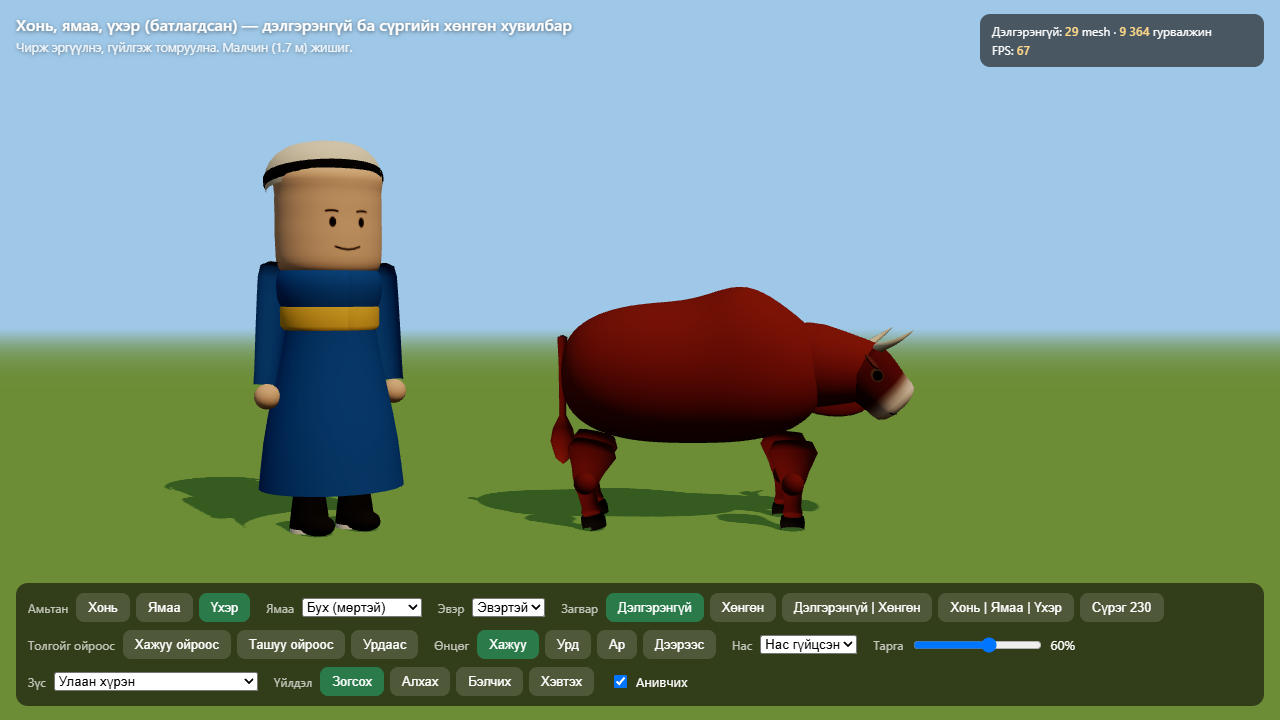
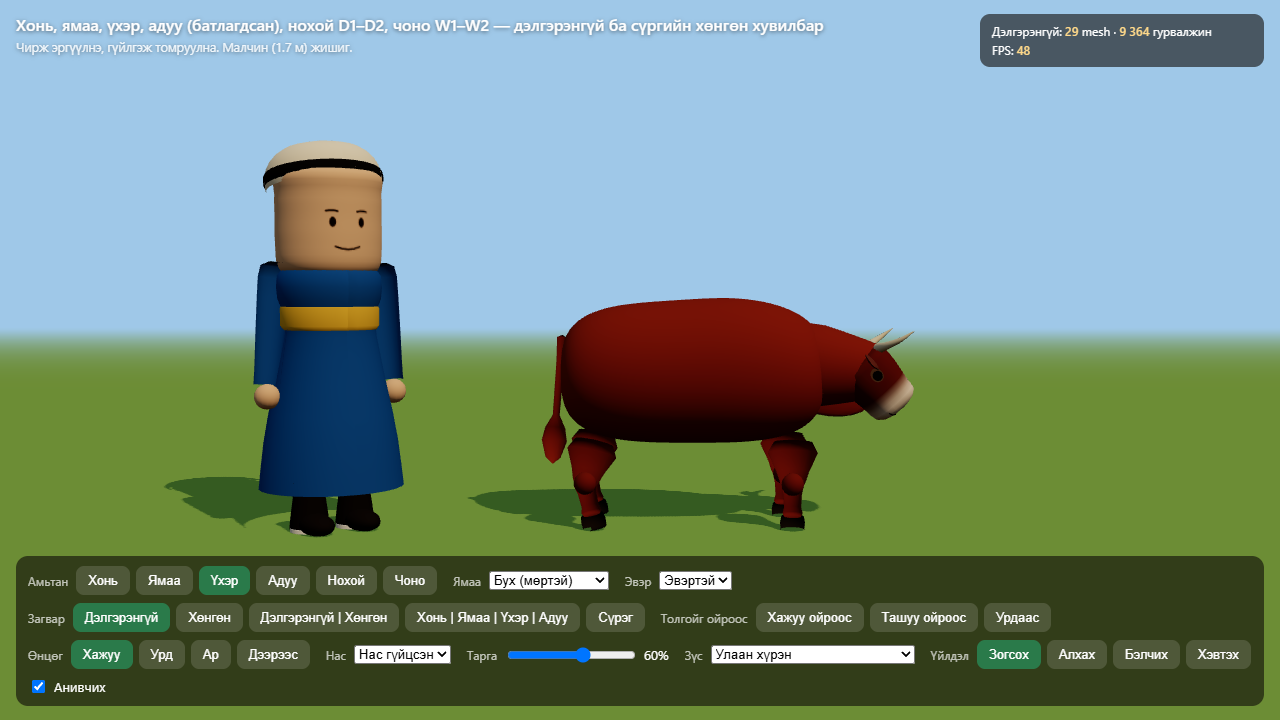
feat(lab): V4.6 үхрийн нуруу тэгш, адуу H2 батлагдсан (явдлын шалгалт), нохой D1–D2, чоно W1–W2
- үхэр: бухын мөр бага, нурууны шугам тэгш, ууц/гуя цээжтэй тэнцүү
- адуу: H2 тогтсон (H1, H3 хасав); явдал тулах/дүүжлэх үетэй, тулах үед туурай газарт;
  туурайн өндрөөр шалгасан — алхах 4 цохилт, хатирах диагональ хос, давхих 4 цохилт + нисэх үе
- унасан малчин: хөл хоёр талд унжиж дөрөөнд
- нохой (банхар, «дөрвөн нүд», сэвсгэр эргэсэн сүүл), чоно (нарийн хошуу, урт хөл, унжсан сүүл);
  алхах, гүйх, хэвтэх, хуцах/улих, сэм дөхөх, барих; нохой малчинтай, чоно хонинтой харьцуулна
- зураг tools/shots/cow/final, horse/final, dog, wolf

diff --git a/docs/plan/V.md b/docs/plan/V.md
@@ -43,7 +43,7 @@ V0–V5 дүрслэлийг бүтнээр нь дуусгаж, мал амьт
 | V4.3 | 1000 малын `high` хэмжилт (`?stats`) | — | — | хэрэглэгч ([[playtest]]) | ⏳ |
 | V4.4 | Үндсэн дүрийн шинэ загвар ([[character-design]]): цилиндр толгой, зурмал нүүр (анивчих, ярих, үйл явдлын сэтгэл хөдлөл), үе мөчтэй алхаа/гүйлт, улирлын дээл, монгол гутал, тоорцог/үстэй малгай. Лаборатори: `tools/character-lab/herder.html` | `render/herderModel.ts`, `render/characters.ts`, `render/style.ts` | `data/visuals.json` herderAnim | Claude | ✅ код ([[playtest]]) |
 | V4.5 | Хүний дүрийн нэг кодын сан: `render/character/` модулиуд, `data/characters.json` (царай, үс, өндөр, хувцас), туслах/газрын зураг/сумын оршин суугчид нэг кодоор, лаборатори нэг эх сурвалжтай — [[character-design]] §4 R1–R7 | `render/character/*`, `render/staff.ts`, `render/sumcenter.ts`, `render/worldmap.ts` | `data/characters.json` | — | 🔄 2026-11-15: **R1** ✅ `herderModel.ts` → `character/{spec,materials,geom,face,bake,rig,animate,crowd}.ts` + `parts/{head,torso,arm,leg,hats}.ts`, бүгд төрөлтэй (`@ts-nocheck` алга), `animateCharacter`; `herderModel.ts` зөвхөн дамжуулагч (R5-д устна). Тоглогч V4.4-тэй **пикселээр ижил** (`lab.html?shot=` 14 зураг, хуучин HEAD кодтой нэг хуудсанд readPixels харьцуулалт, зөрүү 0), draw call өөрчлөгдөөгүй: сүүдэргүй намар 22 / өвөл 31, сүүдэртэй 40 / 58. Зассан алдаа: сумын төвийн `crowd` угсрахад тоглогчийн амьд нүүрний текстурын шилжилт crowd-ийн хуваалтаар дарагдаж нүүр ~7° хазайдаг байсан. Хуучин лабораторийн цэвэр үлдэгдэл (бөөрөнхий толгой, рельеф, чих) хасагдсан. **R2** ✅ `materials.ts` өнгө/хээгээр кэштэй; 10 дүр угсрахад текстур, сангийн тоо өсөхгүй (тест). **R3** ✅ `data/characters.json` (preset `man`, `player`, `base` гүн өвлөлт, тойрог шалгана) + `spec.ts` шалгагч; тоглогч эндээс угсрагдана; deel.color/hem, winterTrim, terlegLighten нь R5 хүртэл `visuals.json` outfits-аас нөхөгдөнө (хуучин `makeHerder`-тэй хуваалцдаг тул давхардуулаагүй). `tests/characters.test.ts` (7). **R6** ✅ `game/lab.html` + `character/lab.ts` (dev-only, тоглоомын модулийг шууд импортолно; preset, өнгө, улирал/бие/малгай, сэтгэл хөдлөл, хөдөлгөөн, crowd, `?shot=`). R1–R3, R6 commit `80f07b0`. **R4** ✅ (хэрэглэгч бүх төрхийг баталсан): spec-д `figure` (stature, legs, build, head, hunch — bake-ээс өмнө ясаар), `headShape` (width, height, round — геометр, малгай таарна), `face` (нүд oval/dot/line/slant + хэмжээ/зай/өндөр, хөмсөг straight/arch/slant + буурал өнгө, ам өргөн/байрлал/инээмсэглэл, сахал, үрчлээ, хацрын туяа, сэвх, мэнгэ, нүдний шил, сормуус), `hair.style` (short, bald — хажуугийн үстэй, bun, braids, braid) + `hair.strands`, арьсны 4 палитр (`skins`: light, medium, tan, ruddy), `wear` (улирлын толгойн өмсгөл) + алчуур `scarf`/`shawl` (эрүүн доогуур/араар зангидсан), охидын `ribbon`; дүр зөвхөн өмсдөг малгайгаа угсарна. Бэлэн дүр 11: woman_braids, woman_plait, boy_shorthair, boy_shaved, girl_braids, girl_bun, elder_goatee, elder_beard (шил), granny_bun, granny_plait, teacher_glasses — бүс 5 өнгө, гутал 3 хувилбар, бие (өргөн мөртэй бүдүүн, туранхай, намхан тарган), бөгтөр 0.14–0.26 рад (хажуугаас танигдана). `detail: 'npc'`: хуваалт 0.6, бээлий гар, үслэг хүрээ хоолойгоор, нэрээр нэгтгэсэн давхарга, хоёр талт нэг материал, давхаргад 1 сүүдэр, атлас нүүр. Хэмжилт (`?lineup&measure`, тоглогч + 8 npc, сүүдэртэй): +126…+130, өвөл +167 < 200. Тоглогч 14 зурагт пикселээр хэвээр (царайны шинэ параметрийн анхдагч утга нь хуучин зурагтай ижил). Лаборатори `?lineup`: `&faces` (царай ойроос 2 эгнээ), `&gray` (бүх дээл саарал — хүн бүр ялгарч байгааг зургаар шалгасан), `&side`, `&hat=`, `&season=`, `&measure`. Зургууд `tools/shots/r4/`. `tests/characters.test.ts` 18. R4 засвар ✅ (`5ccc70c`): арьсны палитр тоглогчийн арьсны ойролцоо, өвлийн хантааз/зах/малгайн өнгө preset бүрт өөр (`vest.worn`), нимгэн наалдсан алчуур (араар зангидсан, дух/хацар ил), npc lod 0.3 → нэг дүр 5 480–7 810 гурвалжин (зорилт ≤ 8 000, тест). **R5** ✅: тоглогч (`characters.ts`), туслах (`staff.ts` — `roles`: малчин, адуучин, жолооч, айлын эхнэр, хүүхэд; дээл үүргийн өнгөөр), газрын зургийн малчин (`worldmap.ts`), сумын оршин суугч (`sumcenter.ts` — `crowd.looks` preset × бие × малгай, seed-ээр) бүгд `buildCharacter`; хуучин `makeHerder`/`dressHerder`/`helperColors`, `herderModel.ts` устсан; тоглогчийн өнгө, collarFur, terlegLighten, сумын олон хүний төрх visuals.json → characters.json. Тоглогч 14 зурагт пикселээр хэвээр; сумын олон хүн ≤ 48 draw call (тест); `staff.test` хэвээр. Зураг `tools/shots/r5/` (?shot=1,4,6). R5 нэмэлт: тоглоом дотор ойроос шалгасан (`tools/shots/r5/` a–d), `roles.collect` насанд хүрэгчдийн preset болсон; өвлийн зузаан алчуур бөөрөнхий, эрүүн доогуур. **R7** ✅: `character/talk.ts` — тоглогч сумын төвийн дэлгүүр/үйлчилгээний хаалганы тойрогт зогсоход (цонх нээгддэг газар; main.ts/panels.ts-д хүрээгүй тул цонхны бодит нээлтийг биш, хаалганы тойргийг ашигласан) хамгийн ойрын оршин суугч амьд дүр болж бие бие рүүгээ эргэж, хоёулаа ам хөдөлгөнө; ярилцлагын үеэр мөнгө өсвөл баярлах, буурвал гуниглах; туслах дайрч буй чоно харвал гайхах → уурлах. Тоо — characters.json `talk`. Тоглоомд шалгасан: эргэлт (тоглогч 0.90 ≈ зорилт), smile зарахад 0.96, авахад −0.85; зураг `tools/shots/r7/`. **Сумын төвийн draw call** ✅ (2026-11-16, `?stats` + ангиллаар нууж хэмжсэн, ярилцлагын үзэгдэл): өмнө high/mid 317 (сүүдэр 31), low ≈ 286 — хэвтээ 26 нохой 169 (нохой бүр 13 mesh), оршин суугч 42, тоглогч 39, тойрог 16, амьд дүр 15, шошго 14, уул 8, худалдааны машин 8, барилгын статик mesh 2, газар 1. Одоо high/mid 81, low 52 (сумын тойм 74 / 49): нохой `bakeStatic` 4, оршин суугч 6 (ойр `crowd.nearR` 14 м — бүрэн дүр, цааш — төрх бүр 1 draw call, сүүдэргүй), тойрог 1, шошго 1 (`LabelAtlas`, ЗАРНА/ТАНЫХ UV солигдоно), уул 1. Барилга (`sumlayout.ts`) хөндөөгүй: статик 2 + машин 8. talk-1-ийн хар тэгш өнцөгт: тестийн скриптийн камер ЗДТГ-ын дотор орсон (z −59.53 < хана −59) — нэг талт хана дотроос харагдахгүй, хаалганы хайрцгийн дотор тал үүрээр гэрэлгүй тул хар; сумын төвд камер-барилгын мөргөлдөөн байхгүй (`camera.ts`, миний файл биш) → [[playtest]]. **Гэр, майхан шинэ загвараар** ✅ (2026-11-16): `staff.ts` `makeDwelling` — айлын гэр `makeGer(home.size)` (хаалганы хээ айлаар), туслахын гэр `makeGer(helper.size, GER.helper: coverColor, belts, энгийн хаалга)`, ганц биеийн майхан `makeTent('otor')`, адуучных `makeTent('horse')`, улирал солигдоход дахин угсарна. Сумын айлын гэр: `sumlayout.ts`-ийн `ger()` зурахаа больж `gers` (байрлал, өнгө, радиус) буцаана (хэрэглэгчийн зөвшөөрлөөр, өөр өөрчлөлтгүй); `sumcenter.ts` хэмжээ × өнгө бүрд makeGer нэг удаа → `bakeStatic` нэг mesh (бие 1 + бэхэн хүрээ 1 + сүүдэр 1 draw call, гэрийн тооноос үл хамаарна), улирлаар. Сумын төв high 84, low 54. `render/ger/*`-д хүрээгүй. Зураг `tools/shots/r5/ger-*`. **Камерын мөргөлдөөн** ✅ (2026-11-16): `render/camclip.ts` (цэвэр логик, Three.js-гүй) — малчин→камер сегментийг барилгын (эргэсэн) хайрцаг, гэрийн цилиндртэй огтолж камерыг зөөлөн (ойртох ~0.08 с, холдох ~0.4 с) ойртуулна, эцсийн байрлалыг дахин тулгана; зөөлөн зай 0.7 м, малчин хананд ойр (<0.7 м) бол зөвхөн бодит ханыг (0.2 м). Саад: сумын төв — `sumlayout.ts` `building()`/`ger()`-ээс `solids` (`sumtown.ts` хөндөөгүй), бууц — өөрийн гэр/майхан, туслахын байр, айлын гэр (`scene.ts campSolids`, `ger.json` хэмжээгээр). Дотор тал (V6.1) нэг талт ханатай «хайрцаг-хөндлөн огтлол» (камер ханын гадна байх нь зориуд) тул хөндөөгүй: өрөөнд хавчуулж үзэхэд камер толгой дээр нь наалдсан. Зураг `tools/shots/camera/`. Тест `tests/camclip.test.ts` (8). Үлдсэн: `tools/character-lab/herder.html` — давалгааны төгсгөлд |
-| V4.6 | **Мал амьтны шинэ загвар** (хэрэглэгчийн шийдвэр 2026-11-15): хонь (өөхөн сүүл), ямаа, үхэр, адуу, нохой (банхар), чоно — гол дүрийн хэв маягаар (энгийн геометр, зурмал нүүр), насаар/таргаар хэмжээ, зүс, туслахын тэмдэг хадгалагдана; InstancedMesh-ээр 1000 мал `high` 60 FPS. Эхлээд `tools/character-lab/`-д лаборатори → хэрэглэгч батлах → `render/animals.ts`, `render/characters.ts` | `render/animals.ts`, `render/characters.ts`, `tools/character-lab/animals.html` | `data/visuals.json` | Claude | 🔄 2026-11-16 (лаборатори `tools/character-lab/animals.html`): хонь, ямаа батлагдсан. **Үхэр** батлагдсан — C2-ын бүдүүн намхан бие + C1-ийн богино эвэр, эвэргүй нь сонголт (сүрэгт `polledShare` 0.3, тугал эвэргүй толгойгоор). Засвар: бухын мөр тусдаа бөмбөлгийн оронд биеийн гадаргуу (`crest`: мөр, сэрвээ өргөгдөж хажуу тийш өргөсөнө, хүзүү ×1.12); толгой өргөн богино дөрвөлжиндүү (`square` superellipse), хамар бүдүүн өргөн цайвар, нүд хажуу тийш том, чих хэвтээ эврийн доор; хөл булчинлаг гуя → тод өвдөг → нарийн шилбэ (хөнгөн хувилбарт ч); зүс тод — хар, улаан хүрэн, алаг (цилиндр координатын том толбо, `patchMap`), хүрэн халзан, шар, зүс бүр хөлийн өнгөтэй. Хөнгөн 726 гурвалжин/мал (өмнөхтэй ижил), сүрэг 230 — 18 draw call. Зураг `tools/shots/cow/final/`. **Адуу H1–H3** (батлуулах): монгол адуу — сэрвээ 1.32–1.36 м, гүн цээж, богино хөл, богино бүдүүн хүзүү, том толгой, урт өтгөн дэл (шүдлэг үзүүр), сүүл, хялгас; H1 ердийн, H2 бүдүүн намхан том толгой, H3 арай өндөр хөнгөн. Азарга — бүдүүн хүзүү, өтгөн дэл; гүү; унага — урт хөл, богино бие. Зүс: хээр (хар шилбэ), зээрд, хар, саарал, халтар, хар цоохор. Явдал: алхах (4 цохилт), хатирах (диагональ хос), давхих (хөндлөн, бие найгана, сүүл өргөгдөнө), бэлчих, хэвтэх. Эмээл (тохом, өндөр бүүрэг, товруу, олом, дөрөө, хазаар) + унасан малчин: суудал 1.37 м, дөрөө 0.70 м (H1) → тоглоомд малчны root ≈ 0.51 м (одоо 1.05 — хуучин хайрцаг морь өндөр; нэгтгэхэд солино). Хөнгөн 680 гурвалжин/мал, 9 хэсэг; адууны сүрэг 60 — 9 draw call. Зураг `tools/shots/horse/` |
+| V4.6 | **Мал амьтны шинэ загвар** (хэрэглэгчийн шийдвэр 2026-11-15): хонь (өөхөн сүүл), ямаа, үхэр, адуу, нохой (банхар), чоно — гол дүрийн хэв маягаар (энгийн геометр, зурмал нүүр), насаар/таргаар хэмжээ, зүс, туслахын тэмдэг хадгалагдана; InstancedMesh-ээр 1000 мал `high` 60 FPS. Эхлээд `tools/character-lab/`-д лаборатори → хэрэглэгч батлах → `render/animals.ts`, `render/characters.ts` | `render/animals.ts`, `render/characters.ts`, `tools/character-lab/animals.html` | `data/visuals.json` | Claude | 🔄 2026-11-16 (лаборатори `tools/character-lab/animals.html`): хонь, ямаа батлагдсан. **Үхэр** батлагдсан — C2-ын бүдүүн намхан бие + C1-ийн богино эвэр, эвэргүй нь сонголт (сүрэгт `polledShare` 0.3, тугал эвэргүй толгойгоор). Засвар: бухын мөр тусдаа бөмбөлгийн оронд биеийн гадаргуу (`crest`: мөр, сэрвээ өргөгдөж хажуу тийш өргөсөнө, хүзүү ×1.12); толгой өргөн богино дөрвөлжиндүү (`square` superellipse), хамар бүдүүн өргөн цайвар, нүд хажуу тийш том, чих хэвтээ эврийн доор; хөл булчинлаг гуя → тод өвдөг → нарийн шилбэ (хөнгөн хувилбарт ч); зүс тод — хар, улаан хүрэн, алаг (цилиндр координатын том толбо, `patchMap`), хүрэн халзан, шар, зүс бүр хөлийн өнгөтэй. Хөнгөн 726 гурвалжин/мал (өмнөхтэй ижил), сүрэг 230 — 18 draw call. Зураг `tools/shots/cow/final/`. Үхрийн засвар (2): нурууны шугам тэгш — бухын мөр бага (crest 0.022), ууц/гуя цээжтэй тэнцүү бүдүүн (p 3.3). **Адуу** батлагдсан — H2 (бүдүүн намхан, том толгой; H1, H3 хасагдсан): сэрвээ 1.32 м, гүн цээж, богино бүдүүн хүзүү, урт дэл, сүүл, хялгас; азарга/гүү/унага; зүс хээр, зээрд, хар, саарал, халтар, хар цоохор. Явдал тулах/дүүжлэх үетэй (duty), тулах үед хөл сунаж туурай газарт үлдэнэ; туурайн өндрөөр кадр бүрт шалгасан (`tools/shots/horse/final/yavdal_shalgalt.txt`): алхах ЗХ→ЗУ→БХ→БУ (0.25 зайтай 4 цохилт), хатирах ЗУ+БХ / БУ+ЗХ диагональ хос, давхих БХ→ЗХ→БУ→ЗУ 4 цохилт + нисэх үе. Эмээл + унасан малчин (хөл хоёр талд унжиж дөрөөнд): суудал 1.36 м, дөрөө 0.69 м → тоглоомд малчны root ≈ 0.50 м (одоо 1.05). Хөнгөн 680 гурвалжин. **Нохой** D1 (бүдүүн банхар, өтгөн үс) / D2 (өндөр, богино үс): өтгөн хар үс, «дөрвөн нүд» (нүдний дээрх шар толбо), шар хошуу/шилбэ, сэвсгэр дээш эргэсэн сүүл, мөр ≈ 0.7 м; зүс хар дөрвөн нүдтэй, бүтэн хар, хүрэн шар. **Чоно** W1 / W2 (том): саарал шаргал, нарийн урт хошуу, босоо чих, шар нүд, урт хөл, унжсан сэвсгэр сүүл; хонины хажууд харьцуулна. Хөдөлгөөн: алхах, гүйх (эргэлдэх давхилт), хэвтэх (урд хөл урагш), хуцах / улих, чоно — сэм дөхөх (бөхийж удаан), барих (урагш шүүрэх). Хөнгөн нохой 654, чоно 642 гурвалжин. Зураг `tools/shots/cow/final/`, `horse/final/`, `dog/`, `wolf/` |
 | V5.0 | Камерын зөөлөн дагалт, P зургийн горимд симуляц ба анимацийг зогсоох, UI нуух; газрын зураг/бууц солих үеийн бүдгэрэлт; `low`-д post-processing нэмээгүй | `render/scene.ts` | — | — | ✅ |
 | V5.1 | bloom/LUT/AA/AO — `mid`/`high`-д төхөөрөмжийн суурь хэмжилтийн ДАРАА шийднэ | `render/scene.ts`, `render/style.ts`, `device.ts` | `data/visuals.json` | D | ⏳ хэмжилт хүлээж байна |
 | V5.2 | UI хээ/гарчиг: Ө, Ү дэмжих фонт, өлзий/алхан хээтэй хүрээ, логоны 2–3 хувилбар → хэрэглэгч сонгоно | `render/ui/panels.ts`, `index.html` | — | E | ⏳ |
